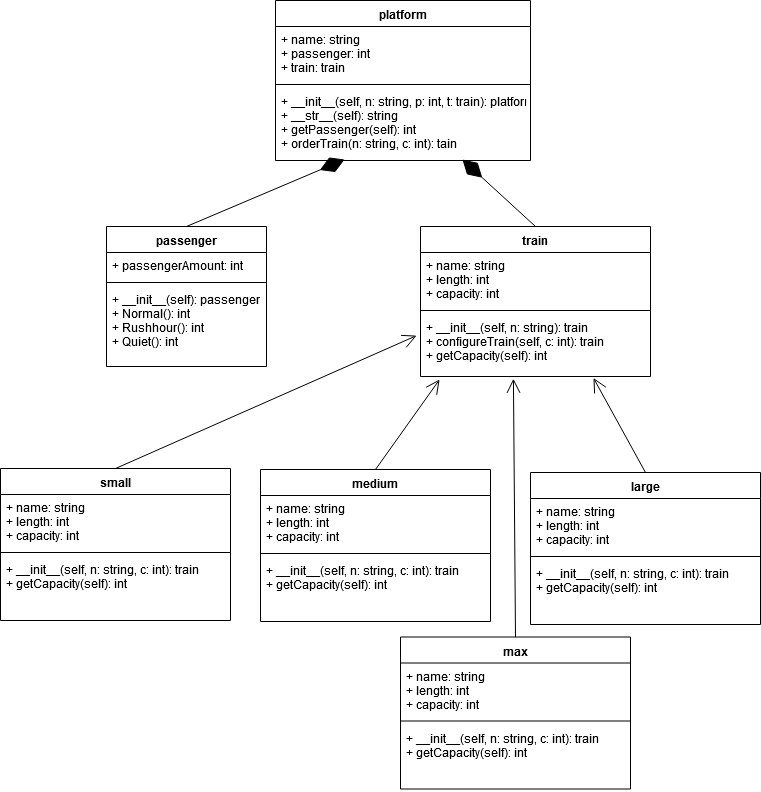
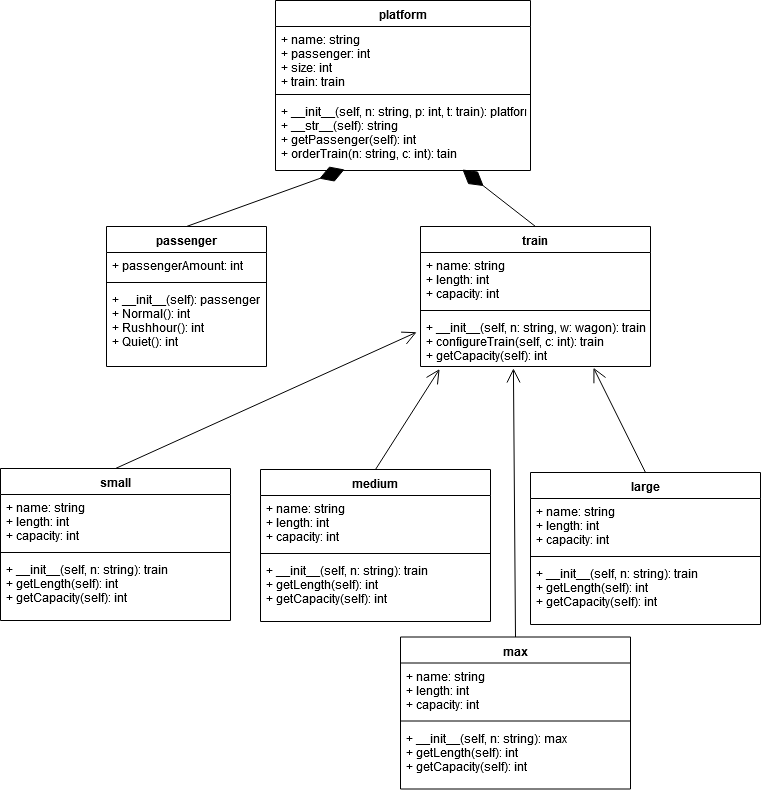
Model Updates
Updated Class Diagram
Codeframe now functional (creating a Testplatform)

diff --git a/code/DWA_system/DWA.py b/code/DWA_system/DWA.py
@@ -1,21 +1,34 @@
 from passenger import passenger
 from platform import platform
 from train import train
-from wagon import wagon
+from small import small
+from medium import medium
+from large import large
+from max import max
 
 
 
 def CreatePlatform():
     ''' Creating the platform '''
-    platform = platform(n, p, t)
+    n = "Testplatform"
+    p = 200
+    s = 5
+    t = None
+    p = platform(n, p, s, t)
 
-    return platform
+    return p
 
 
 def main():
 
     # Creating the objects for the system
-    CreatePlatform()
+    p1 = CreatePlatform()
 
-    print("The platform " + platform.__str__() + "was created and has currently "
-          + str(platform.getPassenger()) + " Passengers waiting.")
+
+    print("The platform " + p1.__str__() + " was created and has currently "
+          + str(p1.getPassenger()) + " Passengers waiting.")
+
+
+
+if __name__ == "__main__":
+    main()

diff --git a/code/DWA_system/train.py b/code/DWA_system/train.py
@@ -1,22 +1,18 @@
 class train:
     ''' The train class '''
 
-    def __init__(self, n, w):
+    def __init__(self, n):
         ''' Initializes the train '''
         self.name = n
-        self.wagon = w
+        self.length = 0
+        self.capacity = 0
 
 
-    def addWagon(selfself, w):
-        ''' This adds another wagon to the train'''
-
-        return None
-
-
-    def removeWagon(selfself, w):
-        ''' This removes a wagon from the train'''
+    def configureTrain(selfself, c):
+        ''' This configures the train size '''
 
         return None
+
 
 
     def getCapacity(self):

diff --git a/code/DWA_system/platform.py b/code/DWA_system/platform.py
@@ -1,10 +1,11 @@
 class platform:
     ''' The platform class '''
 
-    def __init__(self, n, p, t):
+    def __init__(self, n, p, s, t):
         ''' Initializes the platform '''
         self.name = n
         self.passenger = p
+        self.size = s
         self.train = t
 
 
@@ -12,6 +13,7 @@ class platform:
         ''' The print statement for the platform '''
 
         return str(self.name)
+
 
     def getPassenger(self):
         ''' This returns the number of passengers waiting '''

diff --git a/code/DWA_system/passenger.py b/code/DWA_system/passenger.py
@@ -1,13 +1,22 @@
 class passenger:
     ''' The wagon class '''
 
+
     def __init__(self):
         ''' Initializes the passenger '''
 
+        return None
+
     def Normal():
+        ''' Adding random passengers according to normal hours '''
+        return None
 
 
     def Rushhour():
+        ''' Adding random passengers according to rushhour '''
+        return None
 
 
     def Quiet():
+        ''' Adding random passengers according to quiet hours '''
+        return None

diff --git a/code/DWA_system/medium.py b/code/DWA_system/medium.py
@@ -1,0 +1,20 @@
+from train import train
+
+class medium(train):
+    ''' This is a medium train '''
+
+    def __init__(self, n):
+        ''' Initializes the medium train '''
+        self.name = n
+        self.length = 2
+        self.capacity = 75
+
+
+    def getLength(self):
+        ''' Returning the length of the train '''
+        return self.length
+
+
+    def getCapacity(self):
+        ''' Returning the passenger capacity of the train '''
+        return self.capacity

diff --git a/code/DWA_system/large.py b/code/DWA_system/large.py
@@ -1,0 +1,20 @@
+from train import train
+
+class large(train):
+    ''' This is a large train '''
+
+    def __init__(self, n):
+        ''' Initializes the large train '''
+        self.name = n
+        self.length = 3
+        self.capacity = 100
+
+
+    def getLength(self):
+        ''' Returning the length of the train '''
+        return self.length
+
+
+    def getCapacity(self):
+        ''' Returning the passenger capacity of the train '''
+        return self.capacity

diff --git a/code/DWA_system/small.py b/code/DWA_system/small.py
@@ -1,0 +1,20 @@
+from train import train
+
+class small(train):
+    ''' This is a small train '''
+
+    def __init__(self, n):
+        ''' Initializes the small train '''
+        self.name = n
+        self.length = 1
+        self.capacity = 50
+
+
+    def getLength(self):
+        ''' Returning the length of the train '''
+        return self.length
+
+
+    def getCapacity(self):
+        ''' Returning the passenger capacity of the train '''
+        return self.capacity

diff --git a/code/DWA_system/max.py b/code/DWA_system/max.py
@@ -1,0 +1,20 @@
+from train import train
+
+class max(train):
+    ''' This is a max train '''
+
+    def __init__(self, n):
+        ''' Initializes the max train '''
+        self.name = n
+        self.length = 5
+        self.capacity = 200
+
+
+    def getLength(self):
+        ''' Returning the length of the train '''
+        return self.length
+
+
+    def getCapacity(self):
+        ''' Returning the passenger capacity of the train '''
+        return self.capacity
